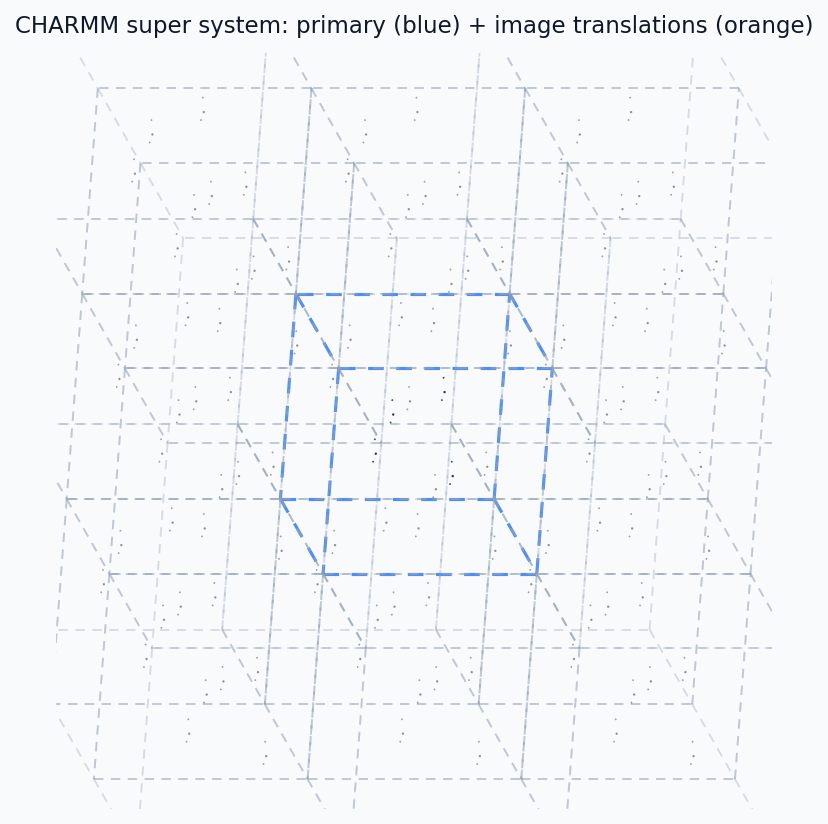
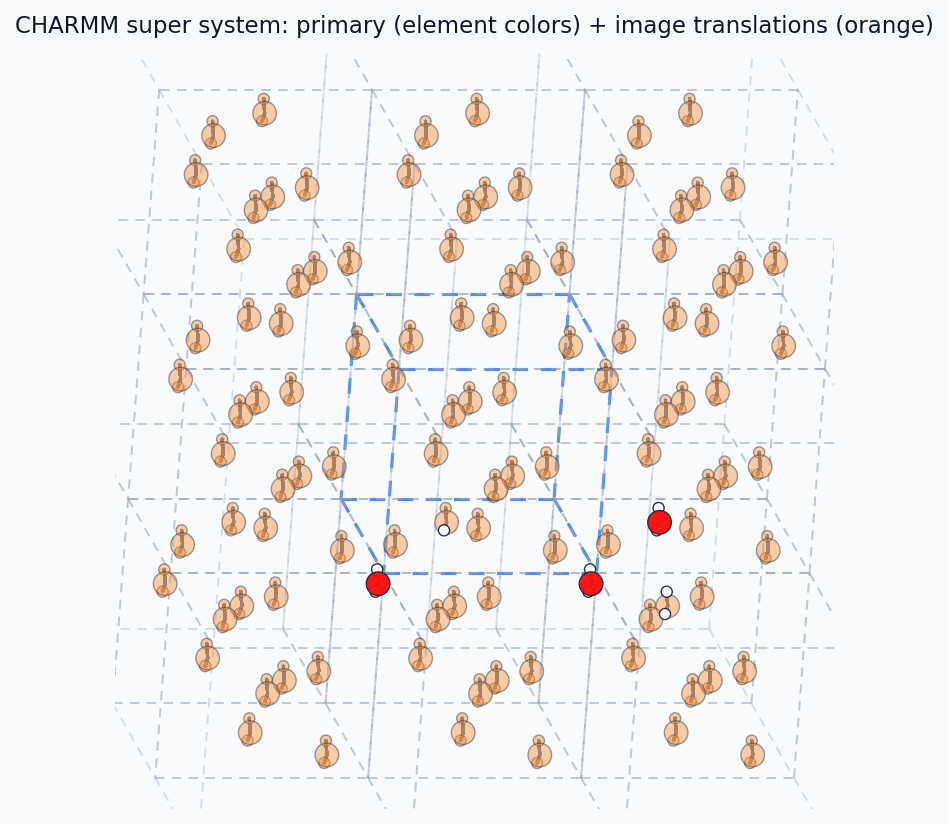
Enhance `draw_orthographic_structure` function in ASE plotting
- Added `charmm_image_tags` parameter to visualize image sites in orange with lower opacity.
- Updated z-order handling for patches based on image status.
- Improved documentation for the function to clarify new features and usage.
- Ensured compatibility with atom count through validation of `charmm_image_tags` length.

diff --git a/mmml/utils/pbc_super_system_plot.py b/mmml/utils/pbc_super_system_plot.py
@@ -3,14 +3,19 @@
 from __future__ import annotations
 
 from pathlib import Path
-from typing import Iterable, Sequence
+from typing import Iterable
 
 import numpy as np
 
-from mmml.utils.ase_structure_plot import DOCS_STRUCTURE_STYLE, use_matplotlib_agg
-
-# Orthographic scale for the small 4×TIP3 teaching cell (Å per cm).
-SCALE_PBC_DEMO = 28.0
+from mmml.utils.ase_structure_plot import (
+    DOCS_STRUCTURE_STYLE,
+    PBC_ATOM_RADII,
+    PBC_ROTATION,
+    SCALE_PBC_WATER,
+    SCALE_PBC_WATER_SUPER,
+    draw_orthographic_structure,
+    use_matplotlib_agg,
+)
 
 
 def four_waters_cubic_cell(*, side_A: float = 14.0) -> "Atoms":
@@ -114,71 +119,23 @@ def _draw_cell_outline(ax, writer, cell: np.ndarray, origin: np.ndarray, *, colo
         )
 
 
-def _draw_atoms_colored(
-    ax,
-    writer,
-    positions: np.ndarray,
-    symbols: Sequence[str],
-    mask: np.ndarray,
-    *,
-    face_primary: str = "#3b82f6",
-    face_image: str = "#fb923c",
-    radius: float = 0.42,
-) -> None:
-    from matplotlib.patches import Circle
-
-    xy = writer.to_image_plane_positions(positions)[:, :2]
-    radii = np.array([radius if s == "O" else radius * 0.55 for s in symbols], dtype=np.float64)
-    for idx, (x, y) in enumerate(xy):
-        color = face_primary if mask[idx] == 0 else face_image
-        r = float(radii[idx])
-        ax.add_patch(
-            Circle(
-                (x, y),
-                r,
-                facecolor=color,
-                edgecolor="#1e293b",
-                linewidth=0.55,
-                alpha=0.92 if mask[idx] == 0 else 0.45,
-                zorder=4 if mask[idx] == 0 else 2,
-            )
-        )
-
-
 def plot_primary_cell(path: Path | str, *, side_A: float = 14.0) -> Path:
     """Unit cell only: four waters and the simulation box."""
     import matplotlib.pyplot as plt
-    from ase.visualize.plot import Matplotlib
 
     use_matplotlib_agg()
     primary = four_waters_cubic_cell(side_A=side_A)
     style = DOCS_STRUCTURE_STYLE
     fig, ax = plt.subplots(figsize=(6.5, 5.2), dpi=150, facecolor=style["figure_facecolor"])
     ax.set_facecolor(style["axes_facecolor"])
-    writer = Matplotlib(
+    draw_orthographic_structure(
         primary,
         ax,
-        rotation="20x,12y,0z",
-        radii=0.9,
-        scale=SCALE_PBC_DEMO,
+        rotation=PBC_ROTATION,
+        scale=SCALE_PBC_WATER,
         show_unit_cell=2,
-        auto_bbox_size=1.15,
+        radii=PBC_ATOM_RADII,
     )
-    _draw_cell_outline(
-        ax,
-        writer,
-        primary.cell.array,
-        np.zeros(3),
-        color="#3b82f6",
-        alpha=0.85,
-        lw=1.4,
-    )
-    mask = np.zeros(len(primary), dtype=np.int8)
-    _draw_atoms_colored(ax, writer, primary.get_positions(), primary.get_chemical_symbols(), mask)
-    ax.set_xlim(0, writer.w)
-    ax.set_ylim(0, writer.h)
-    ax.set_aspect("equal")
-    ax.set_axis_off()
     ax.set_title(
         "Primary unit cell (N atoms in PSF)",
         fontsize=11.5,
@@ -208,9 +165,9 @@ def plot_charmm_super_system(path: Path | str, *, side_A: float = 14.0, shell: i
     writer = Matplotlib(
         super_atoms,
         ax,
-        rotation="20x,12y,0z",
-        radii=0.9,
-        scale=SCALE_PBC_DEMO * 0.82,
+        rotation=PBC_ROTATION,
+        radii=PBC_ATOM_RADII,
+        scale=SCALE_PBC_WATER_SUPER,
         show_unit_cell=0,
         auto_bbox_size=1.12,
     )
@@ -227,19 +184,18 @@ def plot_charmm_super_system(path: Path | str, *, side_A: float = 14.0, shell: i
             alpha=0.9 if is_home else 0.35,
             lw=1.5 if is_home else 0.9,
         )
-    _draw_atoms_colored(
+    draw_orthographic_structure(
+        super_atoms,
         ax,
-        writer,
-        super_atoms.get_positions(),
-        super_atoms.get_chemical_symbols(),
-        tags,
+        rotation=PBC_ROTATION,
+        scale=SCALE_PBC_WATER_SUPER,
+        show_unit_cell=0,
+        radii=PBC_ATOM_RADII,
+        charmm_image_tags=tags,
+        writer=writer,
     )
-    ax.set_xlim(0, writer.w)
-    ax.set_ylim(0, writer.h)
-    ax.set_aspect("equal")
-    ax.set_axis_off()
     ax.set_title(
-        "CHARMM super system: primary (blue) + image translations (orange)",
+        "CHARMM super system: primary (element colors) + image translations (orange)",
         fontsize=11.0,
         fontweight="500",
         color=style["title_color"],
@@ -267,15 +223,22 @@ def plot_mic_convention(path: Path | str, *, side_A: float = 14.0) -> Path:
     writer = Matplotlib(
         primary,
         ax,
-        rotation="20x,12y,0z",
-        radii=0.9,
-        scale=SCALE_PBC_DEMO,
+        rotation=PBC_ROTATION,
+        radii=PBC_ATOM_RADII,
+        scale=SCALE_PBC_WATER,
         show_unit_cell=0,
         auto_bbox_size=1.15,
     )
     _draw_cell_outline(ax, writer, primary.cell.array, np.zeros(3), color="#3b82f6", alpha=0.85, lw=1.4)
-    mask = np.zeros(len(primary), dtype=np.int8)
-    _draw_atoms_colored(ax, writer, primary.get_positions(), primary.get_chemical_symbols(), mask)
+    writer = draw_orthographic_structure(
+        primary,
+        ax,
+        rotation=PBC_ROTATION,
+        scale=SCALE_PBC_WATER,
+        show_unit_cell=0,
+        radii=PBC_ATOM_RADII,
+        writer=writer,
+    )
 
     # Highlight O–O pair across the box boundary (waters 0 and 3 are diagonally placed).
     pos = primary.get_positions()
@@ -304,10 +267,6 @@ def plot_mic_convention(path: Path | str, *, side_A: float = 14.0) -> Path:
         fontweight="600",
         zorder=7,
     )
-    ax.set_xlim(0, writer.w)
-    ax.set_ylim(0, writer.h)
-    ax.set_aspect("equal")
-    ax.set_axis_off()
     ax.set_title(
         "Minimum-image (MIC): N stored atoms, periodic shift in pair loop",
         fontsize=10.5,

diff --git a/mmml/utils/ase_structure_plot.py b/mmml/utils/ase_structure_plot.py
@@ -74,23 +74,35 @@ def draw_orthographic_structure(
     rotation: str,
     scale: float,
     show_unit_cell: int,
-) -> None:
-    """Orthographic ASE view: bonds under atoms, equal aspect, styled patches."""
+    radii: float = 0.88,
+    charmm_image_tags: "np.ndarray | None" = None,
+    writer: "Matplotlib | None" = None,
+) -> "Matplotlib":
+    """Orthographic ASE view: bonds under atoms, equal aspect, styled patches.
+
+    When ``charmm_image_tags`` is set (0 = primary, 1 = IMAGE translation), image
+    sites are drawn in orange at lower opacity; primaries use Jmol element colors.
+
+    Pass an existing ``writer`` (e.g. after drawing cell outlines) to reuse the
+    same projection.
+    """
+    import numpy as np
     from ase.io.utils import make_patch_list
     from ase.visualize.plot import Matplotlib
     from matplotlib.collections import LineCollection
     from matplotlib.patches import Circle, PathPatch
 
     style = DOCS_STRUCTURE_STYLE
-    writer = Matplotlib(
-        atoms,
-        ax,
-        rotation=rotation,
-        radii=0.88,
-        scale=scale,
-        show_unit_cell=show_unit_cell,
-        auto_bbox_size=1.1,
-    )
+    if writer is None:
+        writer = Matplotlib(
+            atoms,
+            ax,
+            rotation=rotation,
+            radii=radii,
+            scale=scale,
+            show_unit_cell=show_unit_cell,
+            auto_bbox_size=1.1,
+        )
 
     segments = bond_segments_2d(atoms, writer)
     if len(segments):
@@ -104,12 +116,25 @@ def draw_orthographic_structure(
             )
         )
 
-    for patch in make_patch_list(writer):
-        patch.set_zorder(3)
+    tags = None
+    if charmm_image_tags is not None:
+        tags = np.asarray(charmm_image_tags, dtype=np.int8).reshape(-1)
+        if int(tags.shape[0]) != len(atoms):
+            raise ValueError(
+                f"charmm_image_tags length {tags.shape[0]} != n_atoms {len(atoms)}"
+            )
+
+    for idx, patch in enumerate(make_patch_list(writer)):
+        is_image = tags is not None and int(tags[idx]) == 1
+        patch.set_zorder(2 if is_image else 3)
         if isinstance(patch, Circle):
             patch.set_edgecolor(style["atom_edge"])
             patch.set_linewidth(style["atom_edge_width"])
-            patch.set_alpha(0.97)
+            if is_image:
+                patch.set_facecolor("#fb923c")
+                patch.set_alpha(0.45)
+            else:
+                patch.set_alpha(0.97)
         elif isinstance(patch, PathPatch):
             patch.set_edgecolor("#3b82f6")
             patch.set_facecolor("none")
@@ -122,6 +147,7 @@ def draw_orthographic_structure(
     ax.set_ylim(0, writer.h)
     ax.set_aspect("equal", adjustable="box")
     ax.set_axis_off()
+    return writer
 
 
 def save_structure_figure(
@@ -174,9 +200,13 @@ def save_structure_figure(
 
 __all__ = [
     "DOCS_STRUCTURE_STYLE",
+    "PBC_ATOM_RADII",
+    "PBC_ROTATION",
     "SCALE_BOX",
     "SCALE_CRYSTAL",
     "SCALE_MONOMER",
+    "SCALE_PBC_WATER",
+    "SCALE_PBC_WATER_SUPER",
     "SCALE_PEPTIDE_ML",
     "SCALE_TRIALANINE_BOX",
     "SCALE_TRIALANINE_PEPTIDE",
